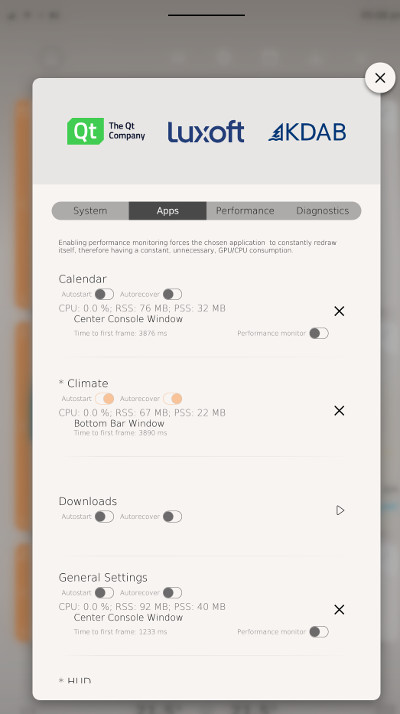
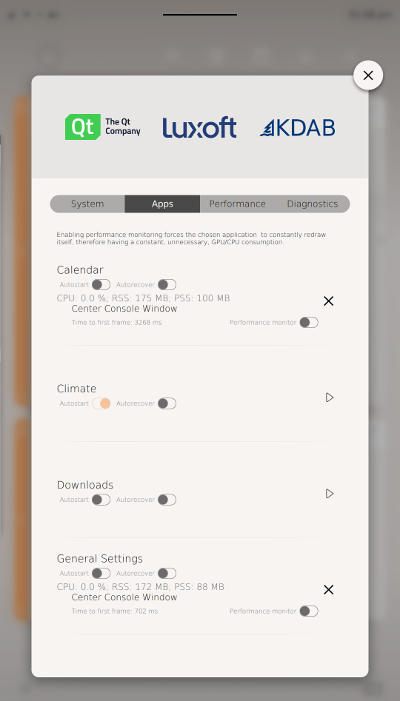
[sysui] add warning about switching off autostart for all apps to docs
It is possible to switch off autostart for all apps including system
ones (Climate, Cluster, HUD). On restart this will lead to empty windows,
which might be confusing for the user. So we add warnings to the docs and
remove differentiation between system/non-system apps in the list.

Task-number: AUTOSUITE-1026

diff --git a/sysui/about/AboutApps.qml b/sysui/about/AboutApps.qml
@@ -194,7 +194,7 @@ Item {
                 anchors.verticalCenter: delegateRoot.verticalCenter
 
                 Label {
-                    text: model.appInfo.isSystemApp ? "* " + model.appInfo.name: model.appInfo.name
+                    text: model.appInfo.name
                 }
 
                 Row {
